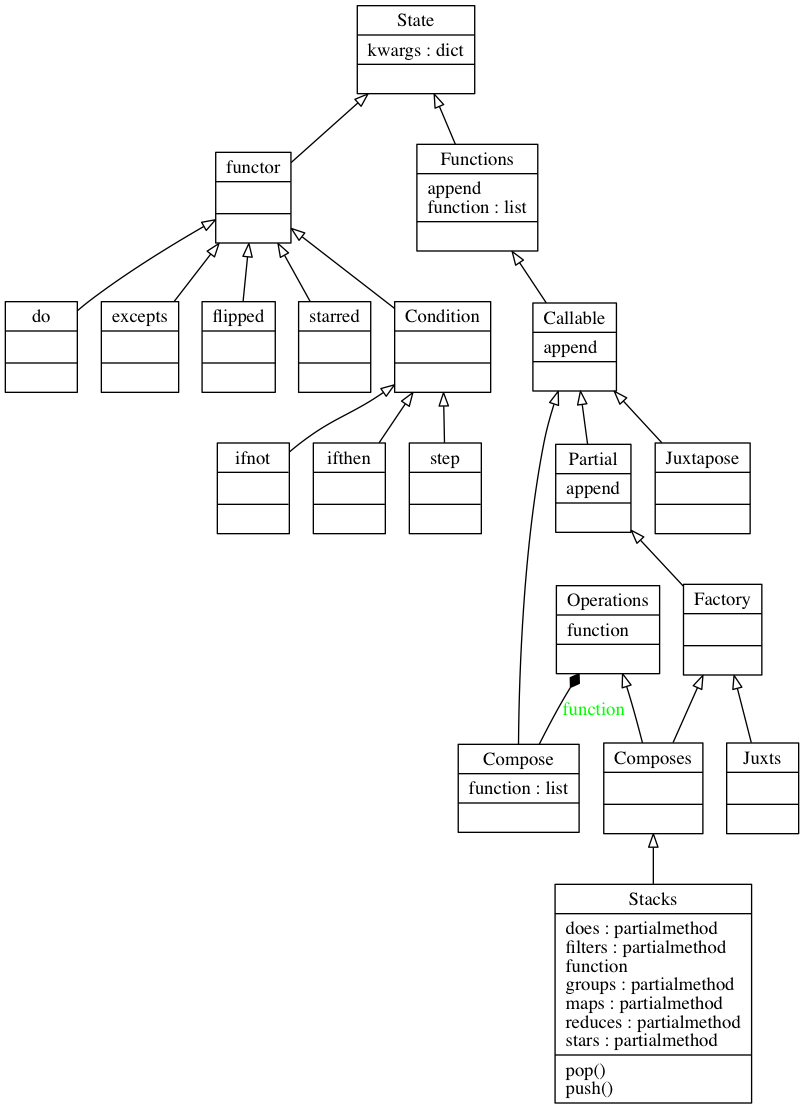
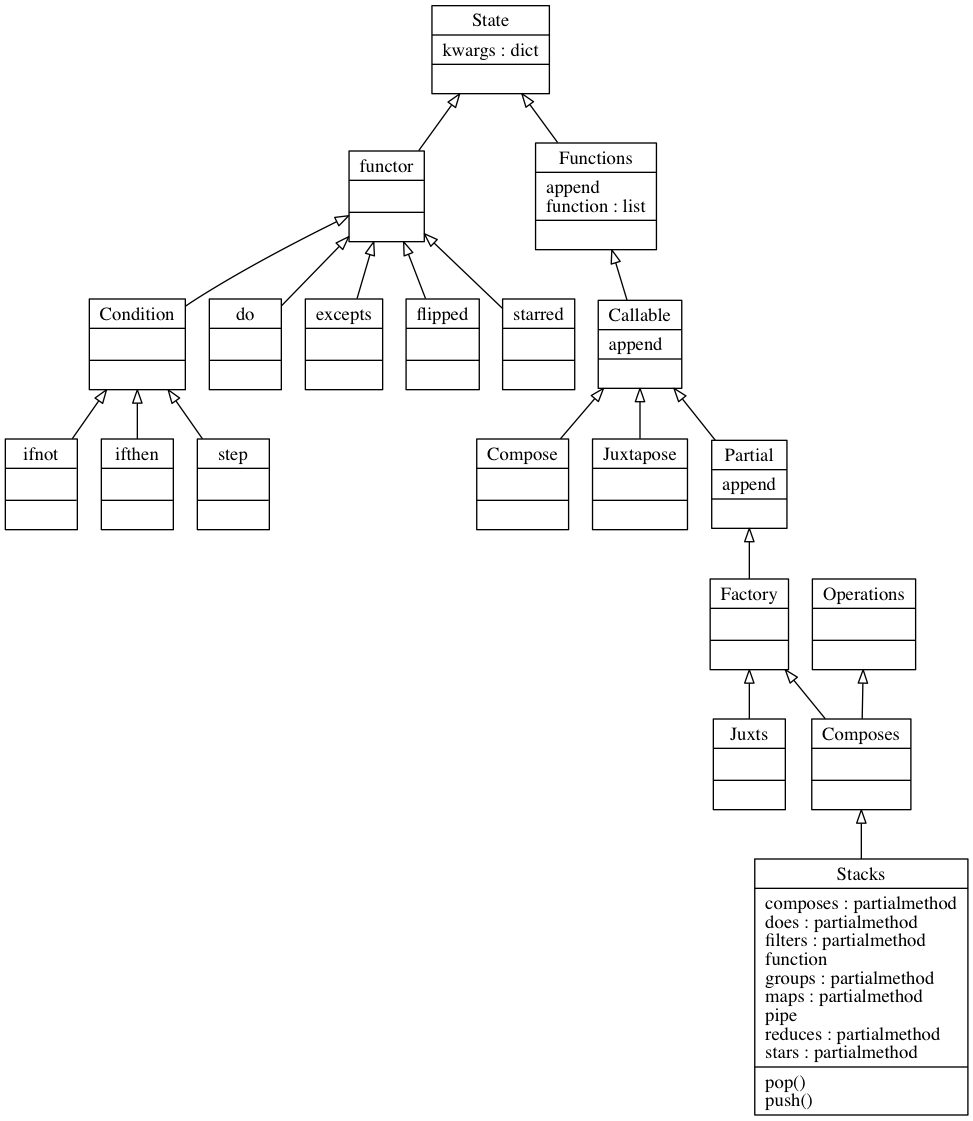
Tighten dispatching and exception attributes

Changed region(s): [[0.0, 0.0, 1.0, 1.0]]

diff --git a/fidget/fidgets.py b/fidget/fidgets.py
@@ -13,7 +13,7 @@
 # * groups
 # * reduces
 
-# In[1]:
+# In[84]:
 
 
 try:
@@ -33,14 +33,14 @@ _attribute_ = "__{}{}__".format
 _isinstance_ = flip(isinstance)
 
 
-# In[2]:
+# In[85]:
 
 
 __all__ = ['flips', 'stars', 'does', 'maps', 'filters', 'groups', 'reduces']
 functions = (flipped, starred, do, map, filter, groupby, reduce)
 
 
-# In[3]:
+# In[86]:
 
 
 def _composed(callable):
@@ -59,39 +59,34 @@ def _curried(callable):
     return wraps(callable)(curried)
 
 
-# In[4]:
+# In[119]:
 
 
 class Operations(object):    
     _attributes = list()
-    def __xor__(self, object):
-        self = self[:]  # noqa: F823
-        if not isiterable(object) and isinstance(object, type):
-            object = (object,)
-            
-        if isiterable(object):
-            if all(map(_isinstance_(type), object)) and all(map(flip(issubclass)(BaseException), object)):
-                self.function = Compose(excepts(object, self.function))
-                return self
-            
-            if all(map(_isinstance_(BaseException), object)):
-                object = tuple(map(type, object))
-                
-            if all(map(_isinstance_(type), object)):
-                object = _isinstance_(object)
 
-        self.function = Compose([ifthen(Compose([object]), self.function)])
-        return self
-
-    def __or__(self, object):
+    def _and_(self, callable, object):
         self = self[:]
-        self.function = Compose([ifnot(self.function, Compose([object]))])
+        self.function = Composes()[Compose([callable(self.function, Compose([object]))])]
         return self
     
-    def __and__(self, object):
+    __or__ = partialmethod(_and_, ifnot)
+    __and__ = partialmethod(_and_, step)
+    
+    def __xor__(self, object):
+        object = type(object) is type and (object,) or object
         self = self[:]
-        self.function = Compose([step(self.function, Compose([object]))])
+        self.function = Composes()[
+            Compose([excepts(object, self.function)])]
         return self
+
+    def __pow__(self, object):
+        object = type(object) is type and (object,) or object
+        self = self[:]
+        self.function = Composes()[
+            Compose([ifthen(callable(object) and object or _isinstance_(object), self.function)])]
+        return self
+
     
     def __pos__(self):
         return self[bool]
@@ -117,9 +112,6 @@ class Operations(object):
                 except:
                     sig=None
 
-                #                 if callable in merge(map(vars, type(self).__mro__)).values():
-                #                     callable = partial(callable, self)
-                #                 else:
                 callable = partial(self.__getitem__, callable)
                 
                 PY3 and setattr(callable, '__doc__', doc)
@@ -132,7 +124,7 @@ class Operations(object):
         return set(concat(map(dir, self._attributes)))
 
 
-# In[5]:
+# In[120]:
 
 
 class Factory(Partial):
@@ -151,11 +143,11 @@ class Factory(Partial):
         return Does()[object] if self._factory_ else self[do(object)]
 
     __mul__ = __add__ = __rshift__ = __sub__ = __getitem__
-    __invert__, __pow__ = Partial.__reversed__, Operations.__xor__
+    __invert__= Partial.__reversed__
  
 
 
-# In[6]:
+# In[121]:
 
 
 class Composes(Factory, Operations): 
@@ -169,7 +161,7 @@ class Juxts(Factory):
     _wrapper, _composition = map(staticmethod, (tuple, Juxtapose))
 
 
-# In[7]:
+# In[122]:
 
 
 for op, func in (('matmul', 'groupby'), ('truediv', 'map'), ('floordiv', 'filter'), ('mod', 'reduce')):
@@ -205,7 +197,7 @@ Operations._attributes.append({
 })
 
 
-# In[8]:
+# In[123]:
 
 
 for name, function in zip(__all__, functions):
@@ -219,7 +211,7 @@ for fidget in __all__:
     locals()[fidget].function = Compose([_callable])
 
 
-# In[9]:
+# In[124]:
 
 
 Composes._attributes.append({
@@ -239,15 +231,3 @@ Composes._attributes.append({
 #             * concat
 #         )()
 # 
-
-# In[ ]:
-
-
-
-
-
-# In[ ]:
-
-
-
-

diff --git a/fidget/functions.py b/fidget/functions.py
@@ -184,15 +184,7 @@ class step(Condition):
         return result and super(step, self).__call__(result)
 
 
-# In[11]:
-
-
-class exception(Exception):
-    def __bool__(self):
-        return False
-
-
-# In[12]:
+# In[14]:
 
 
 class excepts(functor):
@@ -206,7 +198,7 @@ class excepts(functor):
         try:
             return super(excepts, self).__call__(*args, **kwargs)
         except self.exceptions as e:
-            return exception(e)
+            return e
 
 
 # In[13]:

diff --git a/fidget/stacks.py b/fidget/stacks.py
@@ -45,6 +45,8 @@ class Stacks(Composes):
         self.function = self.function[:-1]
         return self
     
+    pipe = __getitem__
+    
     groups = partialmethod(push, Groups)
     filters = partialmethod(push, Filters)
     stars = partialmethod(push, Stars)    
